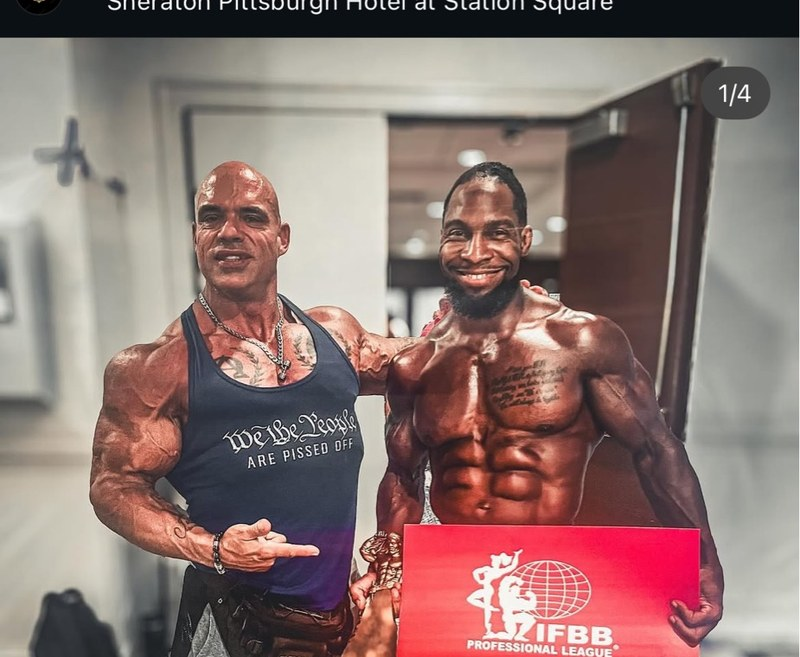
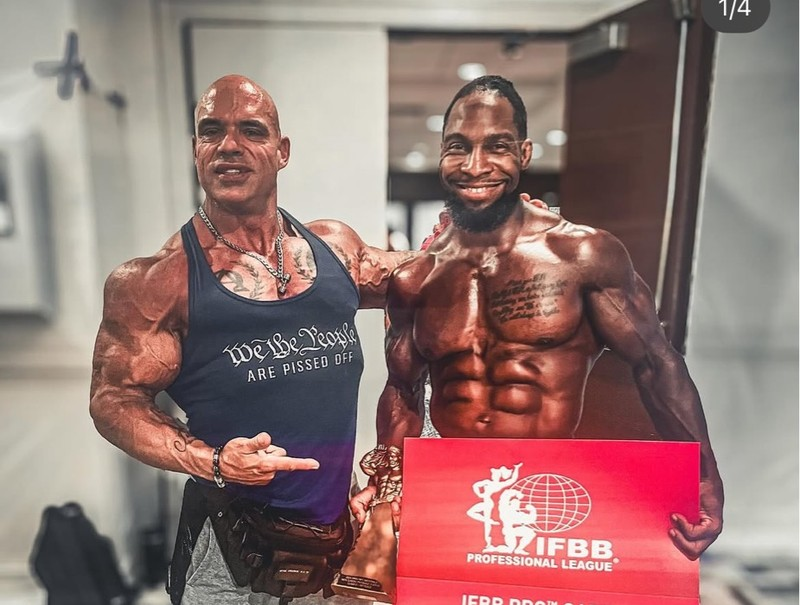
Fix scroll-to-bottom bug + apply full audit fixes (2-15)
- Fix page loading at bottom: add scrollRestoration manual + scrollTo(0,0)
- Meta description: remove "three decades", add og:image meta tags
- Hero image preload link for faster LCP
- Footer social buttons 48px on all viewports (WCAG AAA)
- Animated number counter reveal on scroll intersection
- Gold gradient text on number values for visual pop
- Remove dead CSS: .hero-sub, @keyframes neonBreathe, heroOrb, .hero-bg pseudo-elements
- Remove dead HTML: <div class="hero-bg">
- Parallax hero background (desktop only, disabled on mobile/iOS)
- CSS containment on .svc-card, .number-card, .photo-card
- Photo gallery hover polish: label slide-up + accent border glow
- Featured service card: .svc-featured with gold border + MOST POPULAR tag
- CTA section background image with heavy dark overlay
- About photo sizing: max-width 100% instead of 400px
- Specific alt texts on all gallery photos
- VAT badge opacity .35 → .45, font 7px → 8px
- Font crossorigin="anonymous" on Google Fonts
- Re-cropped 2 images removing Instagram UI chrome

https://claude.ai/code/session_011g8CjMMjHo4bLMivTz2CMS

diff --git a/index.html b/index.html
@@ -4,15 +4,19 @@
 <meta charset="UTF-8"/>
 <meta name="viewport" content="width=device-width,initial-scale=1.0"/>
 <title>IFBB Pro Big Mike Ely | Elite Bodybuilding Coach</title>
-<meta name="description" content="2x IFBB Pro Masters World Champion. 2x Olympian. Three decades transforming thousands of athletes. Elite bodybuilding coaching, nutrition, contest prep, and posing with Big Mike Ely."/>
+<meta name="description" content="2x IFBB Pro Masters World Champion. 2x Olympian. Coached by Hany Rambod. Hundreds of pro cards. Thousands of athletes transformed. Elite bodybuilding coaching with Big Mike Ely."/>
 <meta name="theme-color" content="#020202"/>
 <meta property="og:title" content="IFBB Pro Big Mike Ely | Elite Bodybuilding Coach"/>
 <meta property="og:description" content="2x IFBB Pro Masters World Champion. 2x Olympian. Elite bodybuilding coaching with Big Mike Ely."/>
 <meta property="og:type" content="website"/>
 <meta property="og:url" content="https://ifbbprobigmikeely.com"/>
+<meta property="og:image" content="img/hero-stage-2025.jpg"/>
+<meta property="og:image:width" content="800"/>
+<meta property="og:image:height" content="600"/>
+<link rel="preload" as="image" href="img/hero-stage-2025.jpg"/>
 <link rel="icon" type="image/png" sizes="192x192" href="icons/icon-192.png"/>
 <link rel="apple-touch-icon" href="icons/apple-touch-icon.png"/>
-<link href="https://fonts.googleapis.com/css2?family=Cinzel:wght@400;600;700;800;900&family=Rajdhani:wght@300;400;500;600;700&family=IBM+Plex+Mono:wght@300;400;500;600;700&display=swap" rel="stylesheet">
+<link href="https://fonts.googleapis.com/css2?family=Cinzel:wght@400;600;700;800;900&family=Rajdhani:wght@300;400;500;600;700&family=IBM+Plex+Mono:wght@300;400;500;600;700&display=swap" rel="stylesheet" crossorigin="anonymous">
 <style>
 :root{
   --bg:#020202;--bg2:#050505;--card:#0a0a0c;
@@ -59,10 +63,7 @@ img{max-width:100%;display:block}
 .mobile-menu a{font-family:var(--display);font-size:20px;color:var(--ice);letter-spacing:.08em}
 
 /* Hero */
-.hero{min-height:100vh;display:flex;align-items:center;justify-content:center;position:relative;overflow:hidden;padding:120px 24px 80px;background:linear-gradient(to bottom,rgba(2,2,2,.55) 0%,rgba(2,2,2,.7) 50%,var(--bg) 100%),url('img/hero-stage-2025.jpg') center 15%/cover no-repeat}
-.hero-bg{position:absolute;inset:0;z-index:0}
-.hero-bg::before{content:'';position:absolute;top:-20%;left:50%;width:800px;height:800px;border-radius:50%;background:radial-gradient(circle,var(--accGlow),var(--accS) 35%,transparent 60%);transform:translate(-50%,-50%);filter:blur(80px);animation:heroOrb 12s ease-in-out infinite}
-.hero-bg::after{content:'';position:absolute;bottom:-10%;right:20%;width:400px;height:400px;border-radius:50%;background:radial-gradient(circle,var(--accS),transparent 50%);filter:blur(60px);animation:heroOrb2 8s ease-in-out infinite 2s}
+.hero{min-height:100vh;display:flex;align-items:center;justify-content:center;position:relative;overflow:hidden;padding:120px 24px 80px;background:linear-gradient(to bottom,rgba(2,2,2,.55) 0%,rgba(2,2,2,.7) 50%,var(--bg) 100%),url('img/hero-stage-2025.jpg') center 15%/cover no-repeat;background-attachment:scroll,fixed}
 .hero-vignette{position:absolute;inset:0;z-index:0;background:radial-gradient(ellipse 70% 50% at 50% 50%,transparent 40%,var(--bg) 100%)}
 .hero-content{position:relative;z-index:1;text-align:center;max-width:700px}
 .hero-badge{display:inline-flex;align-items:center;gap:12px;margin-bottom:28px}
@@ -74,7 +75,6 @@ img{max-width:100%;display:block}
 .hero-scroll svg{opacity:.5}
 .hero h1{font-family:var(--display);font-size:clamp(36px,8vw,64px);font-weight:800;color:var(--ice);letter-spacing:.06em;line-height:1.1;margin-bottom:16px}
 .hero h1 em{font-style:normal;background:var(--goldGrad);background-size:200% 100%;-webkit-background-clip:text;-webkit-text-fill-color:transparent;background-clip:text;animation:shimmer 4s ease-in-out infinite}
-.hero-sub{font-size:clamp(14px,2.5vw,18px);color:var(--mu);line-height:1.7;margin-bottom:40px;max-width:520px;margin-left:auto;margin-right:auto}
 .hero-ctas{display:flex;gap:16px;justify-content:center;flex-wrap:wrap}
 .hero-ctas .btn-primary{background:var(--goldGrad);background-size:200% 100%;color:var(--bg);font-family:var(--mono);font-size:11px;font-weight:700;letter-spacing:.12em;padding:18px 36px;border-radius:12px;border:none;cursor:pointer;text-transform:uppercase;box-shadow:0 4px 24px var(--accM);animation:shimmer 3s ease-in-out infinite;text-decoration:none;min-height:50px;display:inline-flex;align-items:center}
 .hero-ctas .btn-secondary{background:var(--accS);color:var(--acc);border:1.5px solid var(--borderH);font-family:var(--mono);font-size:11px;font-weight:700;letter-spacing:.1em;padding:18px 36px;border-radius:12px;text-transform:uppercase;text-decoration:none;display:inline-flex;align-items:center;transition:all .2s}
@@ -89,7 +89,9 @@ img{max-width:100%;display:block}
 
 /* Services */
 .services-grid{display:grid;grid-template-columns:repeat(auto-fit,minmax(280px,1fr));gap:16px;max-width:1100px;margin:0 auto}
-.svc-card{background:linear-gradient(160deg,rgba(12,12,12,.99),rgba(6,6,6,.99));border:1.5px solid var(--borderS);border-radius:16px;padding:32px 24px;transition:border-color .3s,box-shadow .3s,transform .3s;position:relative;overflow:hidden;backdrop-filter:blur(8px)}
+.svc-card{background:linear-gradient(160deg,rgba(12,12,12,.99),rgba(6,6,6,.99));border:1.5px solid var(--borderS);border-radius:16px;padding:32px 24px;transition:border-color .3s,box-shadow .3s,transform .3s;position:relative;overflow:hidden;backdrop-filter:blur(8px);contain:layout style paint}
+.svc-featured{border-color:var(--accB);box-shadow:0 0 24px var(--accS)}
+.svc-featured .svc-name::after{content:'MOST POPULAR';display:inline-block;margin-left:10px;font-family:var(--mono);font-size:8px;font-weight:700;letter-spacing:.1em;padding:3px 8px;border-radius:4px;background:var(--goldGrad);background-size:200% 100%;color:var(--bg);vertical-align:middle;animation:shimmer 3s ease-in-out infinite}
 .svc-card:hover{border-color:var(--accB);box-shadow:0 8px 40px var(--accS),inset 0 1px 0 var(--borderS);transform:translateY(-4px)}
 .svc-card::before{content:'';position:absolute;top:0;left:0;right:0;height:1px;background:linear-gradient(90deg,transparent,var(--acc),transparent);opacity:0;transition:opacity .3s}
 .svc-card:hover::before{opacity:.5}
@@ -118,24 +120,25 @@ img{max-width:100%;display:block}
 
 /* Numbers Grid */
 .numbers-grid{display:grid;grid-template-columns:repeat(4,1fr);gap:16px;max-width:900px;margin:0 auto 48px}
-.number-card{text-align:center;padding:28px 16px;background:linear-gradient(160deg,var(--glassB),rgba(2,2,2,.8));border:1px solid var(--borderS);border-radius:14px;position:relative;overflow:hidden;transition:border-color .3s,transform .3s}
+.number-card{text-align:center;padding:28px 16px;background:linear-gradient(160deg,var(--glassB),rgba(2,2,2,.8));border:1px solid var(--borderS);border-radius:14px;position:relative;overflow:hidden;transition:border-color .3s,transform .3s;contain:layout style paint}
 .number-card:hover{border-color:var(--borderH);transform:translateY(-4px)}
 .number-card::before{content:'';position:absolute;top:0;left:20%;right:20%;height:1px;background:linear-gradient(90deg,transparent,var(--acc),transparent);opacity:.4}
-.number-val{font-size:clamp(24px,4vw,36px);font-weight:800;color:var(--acc);font-family:var(--mono);line-height:1;margin-bottom:6px}
+.number-val{font-size:clamp(24px,4vw,36px);font-weight:800;background:var(--goldGrad);background-size:200% 100%;-webkit-background-clip:text;-webkit-text-fill-color:transparent;background-clip:text;animation:shimmer 4s ease-in-out infinite;font-family:var(--mono);line-height:1;margin-bottom:6px}
 .number-val.text-val{font-size:clamp(16px,2.5vw,22px);letter-spacing:.04em}
 .number-label{font-size:9px;color:var(--dm);font-family:var(--mono);letter-spacing:.12em;text-transform:uppercase}
 .results-liner{font-size:14px;color:var(--mu);text-align:center;max-width:600px;margin:0 auto 48px;line-height:1.7}
 
 /* Photo Gallery */
 .photo-gallery{display:grid;grid-template-columns:repeat(auto-fit,minmax(220px,1fr));gap:12px;max-width:1000px;margin:0 auto}
-.photo-card{border-radius:14px;overflow:hidden;border:1.5px solid var(--borderS);transition:border-color .3s,transform .3s,box-shadow .3s;position:relative}
-.photo-card:hover{border-color:var(--borderH);transform:translateY(-4px);box-shadow:0 8px 32px var(--accS)}
+.photo-card{border-radius:14px;overflow:hidden;border:1.5px solid var(--borderS);transition:border-color .3s,transform .3s,box-shadow .3s;position:relative;contain:layout style paint}
+.photo-card:hover{border-color:var(--accB);transform:translateY(-4px);box-shadow:0 8px 32px var(--accS),0 0 0 1px var(--accGlow)}
 .photo-card img{width:100%;height:240px;object-fit:cover;filter:contrast(1.05) brightness(.95);transition:transform .4s}
 .photo-card:hover img{transform:scale(1.04)}
-.photo-card .photo-label{position:absolute;bottom:0;left:0;right:0;padding:12px 14px;background:linear-gradient(transparent,rgba(2,2,2,.9));font-family:var(--mono);font-size:9px;color:var(--ow);letter-spacing:.06em}
+.photo-card .photo-label{position:absolute;bottom:0;left:0;right:0;padding:12px 14px;background:linear-gradient(transparent,rgba(2,2,2,.9));font-family:var(--mono);font-size:9px;color:var(--ow);letter-spacing:.06em;transform:translateY(4px);opacity:.7;transition:transform .3s,opacity .3s}
+.photo-card:hover .photo-label{transform:translateY(0);opacity:1}
 
 /* About Photo */
-.about-photo{border-radius:16px;overflow:hidden;border:1.5px solid var(--borderS);max-width:400px;margin:0 auto}
+.about-photo{border-radius:16px;overflow:hidden;border:1.5px solid var(--borderS);max-width:100%;margin:0 auto}
 .about-photo img{width:100%;height:auto;filter:contrast(1.05) brightness(.95)}
 
 /* Legends Strip */
@@ -150,7 +153,7 @@ img{max-width:100%;display:block}
 .cta-trust{font-family:var(--mono);font-size:10px;color:var(--dm);letter-spacing:.08em;margin-top:20px}
 
 /* CTA Section */
-.cta-section{background:linear-gradient(160deg,rgba(14,14,16,.99),rgba(6,6,8,.99));border-top:1px solid var(--borderS);border-bottom:1px solid var(--borderS);position:relative;overflow:hidden}
+.cta-section{background:linear-gradient(160deg,rgba(2,2,2,.92),rgba(2,2,2,.88)),url('img/about-back-gym.jpg') center/cover no-repeat;border-top:1px solid var(--borderS);border-bottom:1px solid var(--borderS);position:relative;overflow:hidden}
 .cta-section::before{content:'';position:absolute;top:50%;left:50%;width:600px;height:600px;border-radius:50%;background:radial-gradient(circle,var(--accS),transparent 60%);transform:translate(-50%,-50%);filter:blur(80px);pointer-events:none}
 .cta-inner{max-width:600px;margin:0 auto;text-align:center}
 .cta-inner .btn-primary{background:var(--goldGrad);background-size:200% 100%;color:var(--bg);font-family:var(--mono);font-size:12px;font-weight:700;letter-spacing:.12em;padding:20px 48px;border-radius:14px;border:none;cursor:pointer;text-transform:uppercase;box-shadow:0 4px 24px var(--accM);animation:shimmer 3s ease-in-out infinite;text-decoration:none;display:inline-block;min-height:54px}
@@ -163,19 +166,16 @@ img{max-width:100%;display:block}
 .footer-links a{font-family:var(--mono);font-size:10px;letter-spacing:.1em;color:var(--dm);text-transform:uppercase;transition:color .2s}
 .footer-links a:hover{color:var(--acc)}
 .footer-social{display:flex;justify-content:center;gap:16px;margin-bottom:24px}
-.footer-social a{width:40px;height:40px;border-radius:10px;background:var(--glassB);border:1px solid var(--borderS);display:flex;align-items:center;justify-content:center;color:var(--dm);transition:all .2s}
+.footer-social a{width:48px;height:48px;border-radius:10px;background:var(--glassB);border:1px solid var(--borderS);display:flex;align-items:center;justify-content:center;color:var(--dm);transition:all .2s}
 .footer-social a:hover{border-color:var(--accB);color:var(--acc)}
 .footer-copy{font-size:10px;color:var(--dmL);font-family:var(--mono);letter-spacing:.06em}
-.vat-badge{display:inline-flex;align-items:center;gap:10px;margin-top:12px;text-decoration:none;transition:opacity .2s;opacity:.35}
+.vat-badge{display:inline-flex;align-items:center;gap:10px;margin-top:12px;text-decoration:none;transition:opacity .2s;opacity:.45}
 .vat-badge:hover{opacity:.7}
 .vat-badge svg{flex-shrink:0}
-.vat-badge span{font-size:7px;color:var(--dmL);font-family:var(--mono);letter-spacing:.14em;line-height:1.5}
+.vat-badge span{font-size:8px;color:var(--dmL);font-family:var(--mono);letter-spacing:.14em;line-height:1.5}
 
 /* Animations */
 @keyframes shimmer{0%{background-position:100% 50%}50%{background-position:0% 50%}100%{background-position:100% 50%}}
-@keyframes neonBreathe{0%,100%{box-shadow:0 0 15px var(--accGlow),0 0 40px var(--accS),0 0 80px var(--accS);border-color:var(--accB)}50%{box-shadow:0 0 25px var(--accM),0 0 60px var(--accGlow),0 0 100px var(--accS);border-color:var(--accB)}}
-@keyframes heroOrb{0%,100%{transform:translate(-50%,-50%) scale(1);opacity:.6}50%{transform:translate(-50%,-50%) scale(1.2);opacity:.9}}
-@keyframes heroOrb2{0%,100%{transform:scale(1);opacity:.3}50%{transform:scale(1.15);opacity:.5}}
 @keyframes fadeUp{from{opacity:0;transform:translateY(30px)}to{opacity:1;transform:translateY(0)}}
 @keyframes scrollBounce{0%,100%{transform:translateX(-50%) translateY(0)}50%{transform:translateX(-50%) translateY(8px)}}
 @media(prefers-reduced-motion:reduce){*,*::before,*::after{animation-duration:0.01ms !important;animation-iteration-count:1 !important;transition-duration:0.01ms !important}}
@@ -185,7 +185,7 @@ img{max-width:100%;display:block}
   .nav-links{display:none}
   .nav-menu-btn{display:block}
   .site-nav{backdrop-filter:blur(12px);-webkit-backdrop-filter:blur(12px)}
-  .hero{padding:100px 20px 80px;min-height:90vh}
+  .hero{padding:100px 20px 80px;min-height:90vh;background-attachment:scroll,scroll}
   .hero-proof{font-size:10px}
   .section-pad{padding:60px 20px}
   .services-grid{grid-template-columns:1fr}
@@ -235,7 +235,6 @@ img{max-width:100%;display:block}
 
 <!-- HERO -->
 <section class="hero">
-  <div class="hero-bg"></div>
   <div class="hero-vignette"></div>
   <div class="hero-content">
     <div class="hero-badge">
@@ -293,7 +292,7 @@ img{max-width:100%;display:block}
       <div class="svc-desc">Full remote coaching with weekly check-ins, program adjustments, and direct access. Same level of detail and attention as in-person &mdash; from anywhere in the world.</div>
       <a href="book.html" class="svc-book">Book &rarr;</a>
     </div>
-    <div class="svc-card">
+    <div class="svc-card svc-featured">
       <div class="svc-icon"><svg width="32" height="32" viewBox="0 0 24 24" fill="none" stroke="currentColor" stroke-width="1.5" stroke-linecap="round"><path d="M12 2l2.4 7.4H22l-6.2 4.5 2.4 7.4L12 16.8l-6.2 4.5 2.4-7.4L2 9.4h7.6z"/></svg></div>
       <div class="svc-name">Full Coaching Package</div>
       <div class="svc-desc">Training, nutrition, supplementation, cardio, progress tracking, and unlimited direct access. The complete Big Mike experience &mdash; everything under one roof.</div>
@@ -371,11 +370,11 @@ img{max-width:100%;display:block}
   <div class="results-liner">From first-time competitors to national champions. From weight loss transformations to world championship stages.</div>
   <div class="photo-gallery">
     <div class="photo-card">
-      <img src="img/results-procard-rob.jpg" alt="Mike with athlete earning IFBB Pro Card" loading="lazy"/>
+      <img src="img/results-procard-rob.jpg" alt="Big Mike Ely with Rob after earning his IFBB Pro Card" loading="lazy"/>
       <div class="photo-label">IFBB Pro Card Earned</div>
     </div>
     <div class="photo-card">
-      <img src="img/results-procard-female.jpg" alt="Mike with female athlete earning IFBB Pro Card" loading="lazy"/>
+      <img src="img/results-procard-female.jpg" alt="Big Mike Ely with female athlete after earning her IFBB Pro Card" loading="lazy"/>
       <div class="photo-label">IFBB Pro Card Earned</div>
     </div>
     <div class="photo-card">
@@ -383,7 +382,7 @@ img{max-width:100%;display:block}
       <div class="photo-label">Center Stage Athletes</div>
     </div>
     <div class="photo-card">
-      <img src="img/results-procard-backstage.jpg" alt="Backstage pro card celebration" loading="lazy"/>
+      <img src="img/results-procard-backstage.jpg" alt="Big Mike Ely backstage celebrating athlete's IFBB Pro Card" loading="lazy"/>
       <div class="photo-label">IFBB Pro Card Earned</div>
     </div>
   </div>
@@ -440,6 +439,10 @@ img{max-width:100%;display:block}
 </footer>
 
 <script>
+/* Fix: scroll to top on page load */
+if('scrollRestoration' in history) history.scrollRestoration='manual';
+window.scrollTo(0,0);
+
 /* Theme: read from coach's portal theme setting */
 (function(){
   var t=localStorage.getItem("bm_portal_theme")||localStorage.getItem("fm_theme")||"gold";
@@ -477,6 +480,34 @@ var observer=new IntersectionObserver(function(entries){
     }
   });
 },{threshold:0.1});
+/* Animated number reveal */
+var numObserver=new IntersectionObserver(function(entries){
+  entries.forEach(function(entry){
+    if(entry.isIntersecting){
+      var el=entry.target;
+      var text=el.getAttribute("data-text");
+      var dur=600;
+      var start=performance.now();
+      el.style.opacity="1";
+      function tick(now){
+        var p=Math.min((now-start)/dur,1);
+        var ease=1-Math.pow(1-p,3);
+        var len=Math.ceil(text.length*ease);
+        el.textContent=text.substring(0,len);
+        if(p<1) requestAnimationFrame(tick);
+      }
+      requestAnimationFrame(tick);
+      numObserver.unobserve(el);
+    }
+  });
+},{threshold:0.3});
+document.querySelectorAll(".number-val").forEach(function(el){
+  el.setAttribute("data-text",el.textContent);
+  el.textContent="";
+  el.style.opacity="0";
+  numObserver.observe(el);
+});
+
 var groups={};
 document.querySelectorAll(".svc-card,.number-card,.photo-card,.about-stat,.cred-chip").forEach(function(el){
   el.style.opacity="0";
